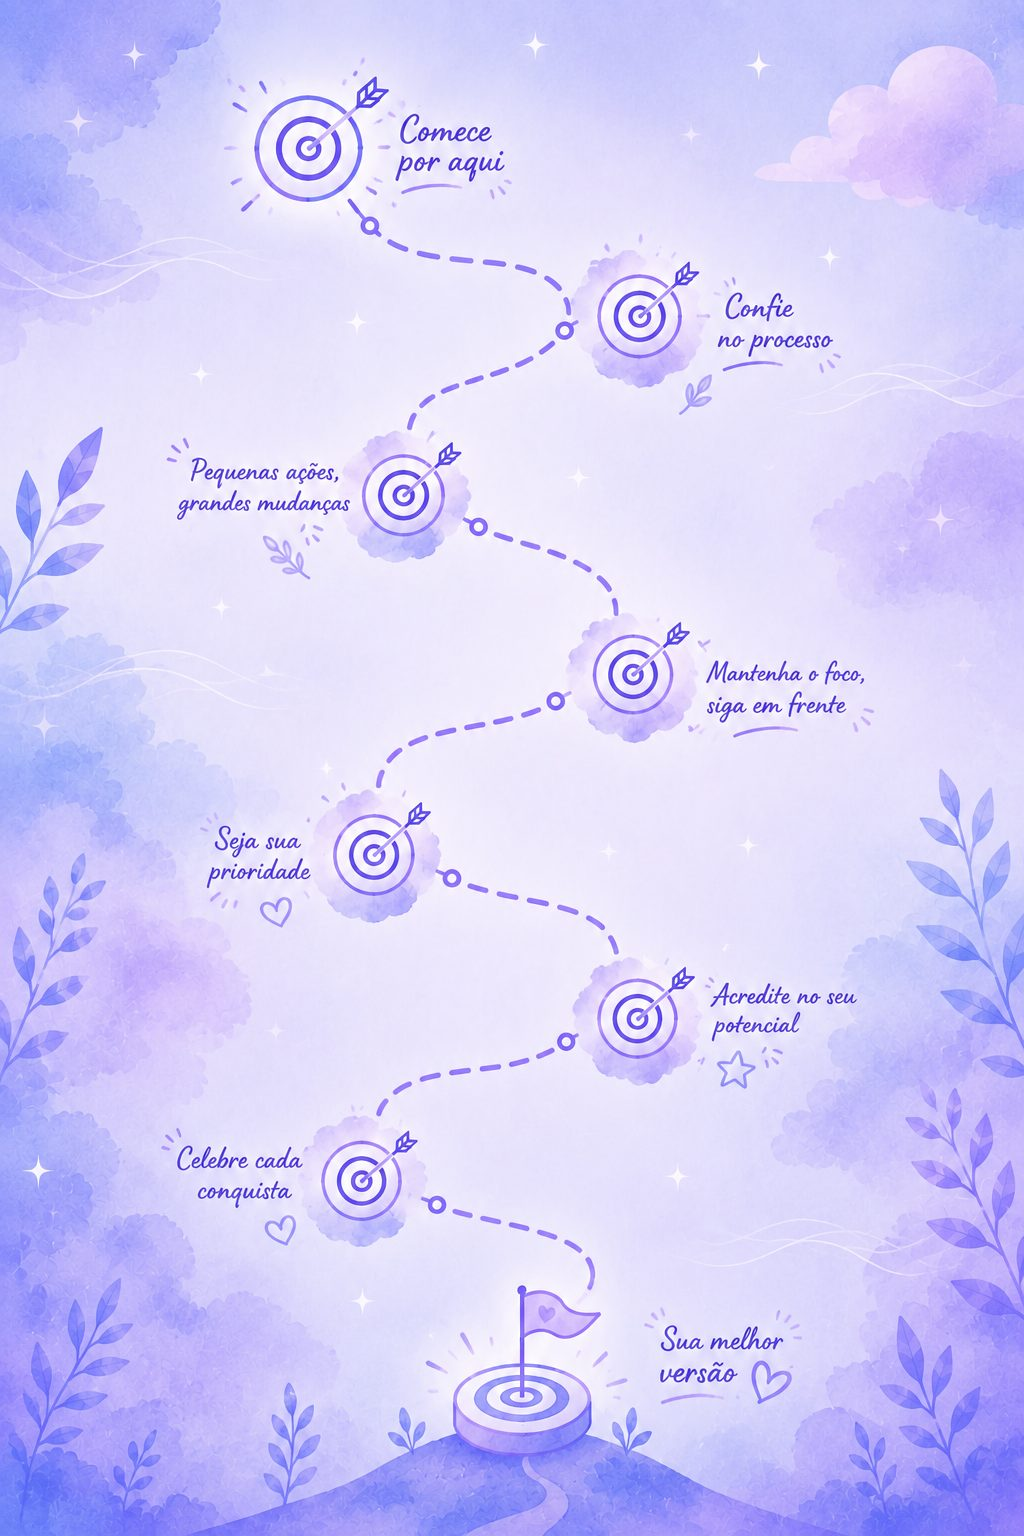
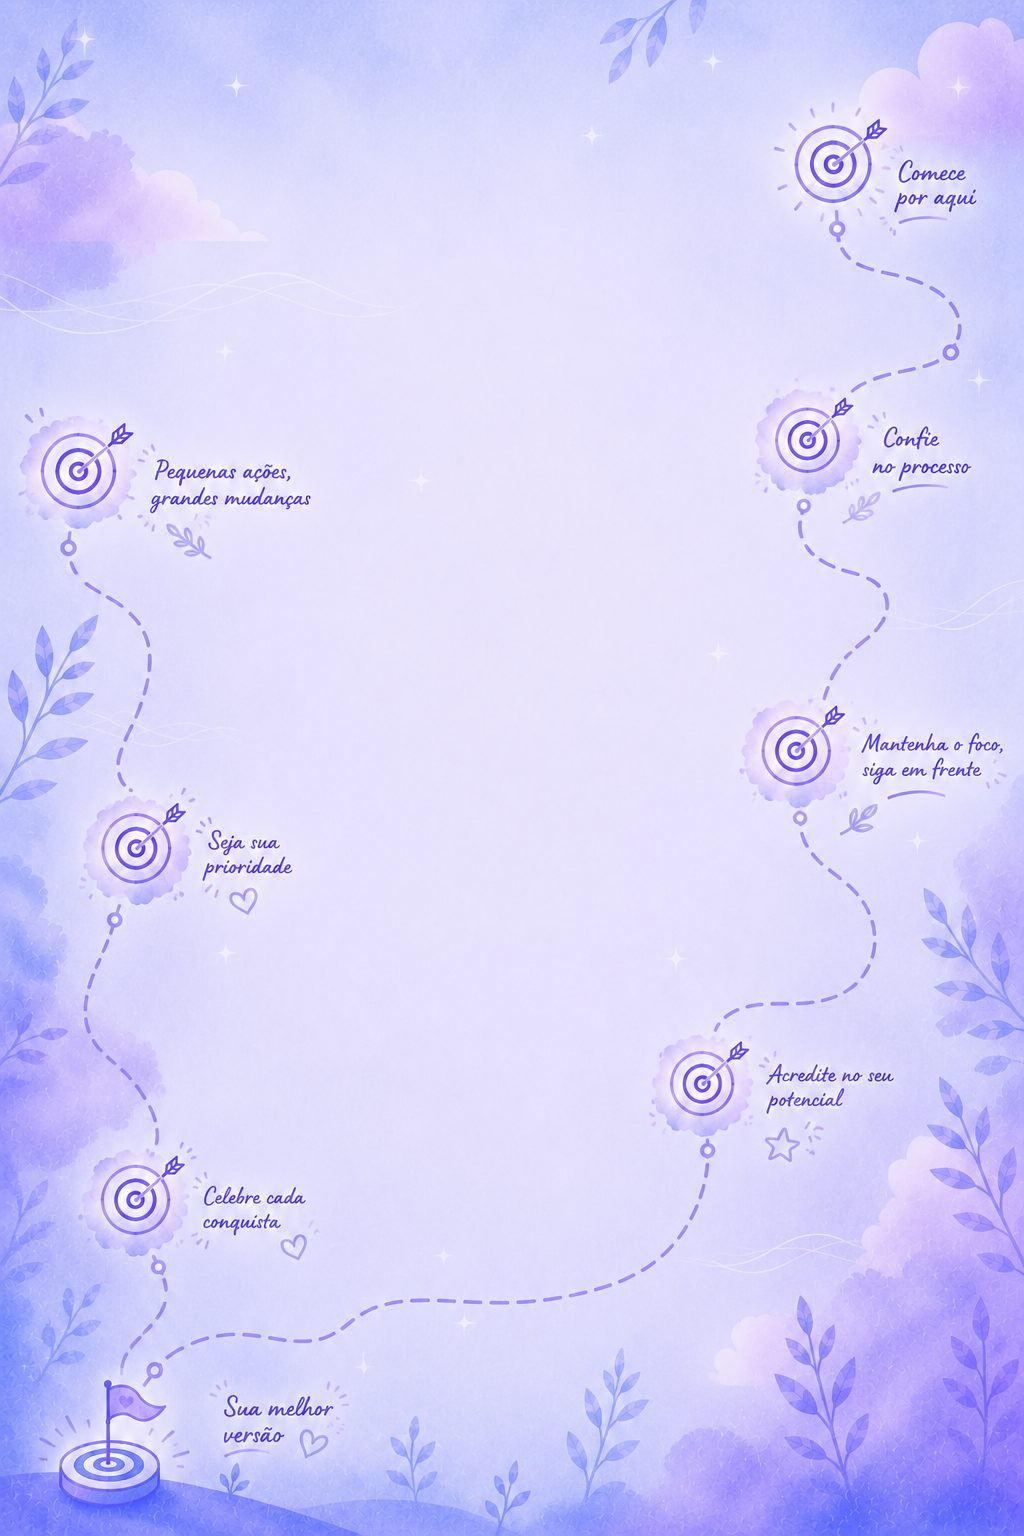
fa

diff --git a/css/style.css b/css/style.css
@@ -49,6 +49,7 @@ html, body {
     cursor: pointer;
     display: block;
     transition: opacity .15s ease, transform .15s ease;
+    filter: drop-shadow(0 8px 16px rgba(0,0,0,0.5));
   }
   .header-banner:hover { opacity: 0.92; transform: scale(1.005); }
 
@@ -111,6 +112,7 @@ html, body {
     border-radius: 12px;
     padding: 18px 20px;
     margin-bottom: 16px;
+    box-shadow: 0 6px 16px rgba(0,0,0,0.4);
   }
   .section-head {
     display: flex;
@@ -446,6 +448,7 @@ html, body {
     border: 1px solid var(--line);
     border-radius: 12px;
     padding: 16px;
+    box-shadow: 0 6px 16px rgba(0,0,0,0.4);
   }
   .stat-label {
     font-size: 11.5px;
@@ -482,6 +485,7 @@ html, body {
     border-radius: 12px;
     padding: 20px;
     margin-bottom: 20px;
+    box-shadow: 0 6px 16px rgba(0,0,0,0.4);
   }
   .master-top { display: flex; justify-content: space-between; align-items: baseline; margin-bottom: 6px; }
   .master-num { font-family: 'IBM Plex Mono', monospace; font-size: 34px; font-weight: 700; color: var(--amber); }
@@ -527,6 +531,7 @@ html, body {
     margin-bottom: 20px;
     position: relative;
     min-height: 160px;
+    box-shadow: 0 6px 16px rgba(0,0,0,0.4);
   }
   .score-corner-btn {
     position: absolute;
@@ -536,7 +541,7 @@ html, body {
     transition: transform .15s ease, opacity .15s ease;
   }
   .score-corner-btn:hover { transform: scale(1.03); opacity: 0.92; }
-  .score-corner-btn img { width: 100%; height: auto; display: block; }
+  .score-corner-btn img { width: 100%; height: auto; display: block; filter: drop-shadow(0 6px 12px rgba(0,0,0,0.5)); }
   .score-corner-left { left: 16px; }
   .score-corner-right { right: 16px; }
 
@@ -625,6 +630,7 @@ html, body {
     border-radius: 16px;
     padding: 34px 20px;
     margin-bottom: 20px;
+    box-shadow: 0 6px 16px rgba(0,0,0,0.4);
   }
   .score-mega-value {
     font-family: 'Space Grotesk', 'IBM Plex Mono', monospace;